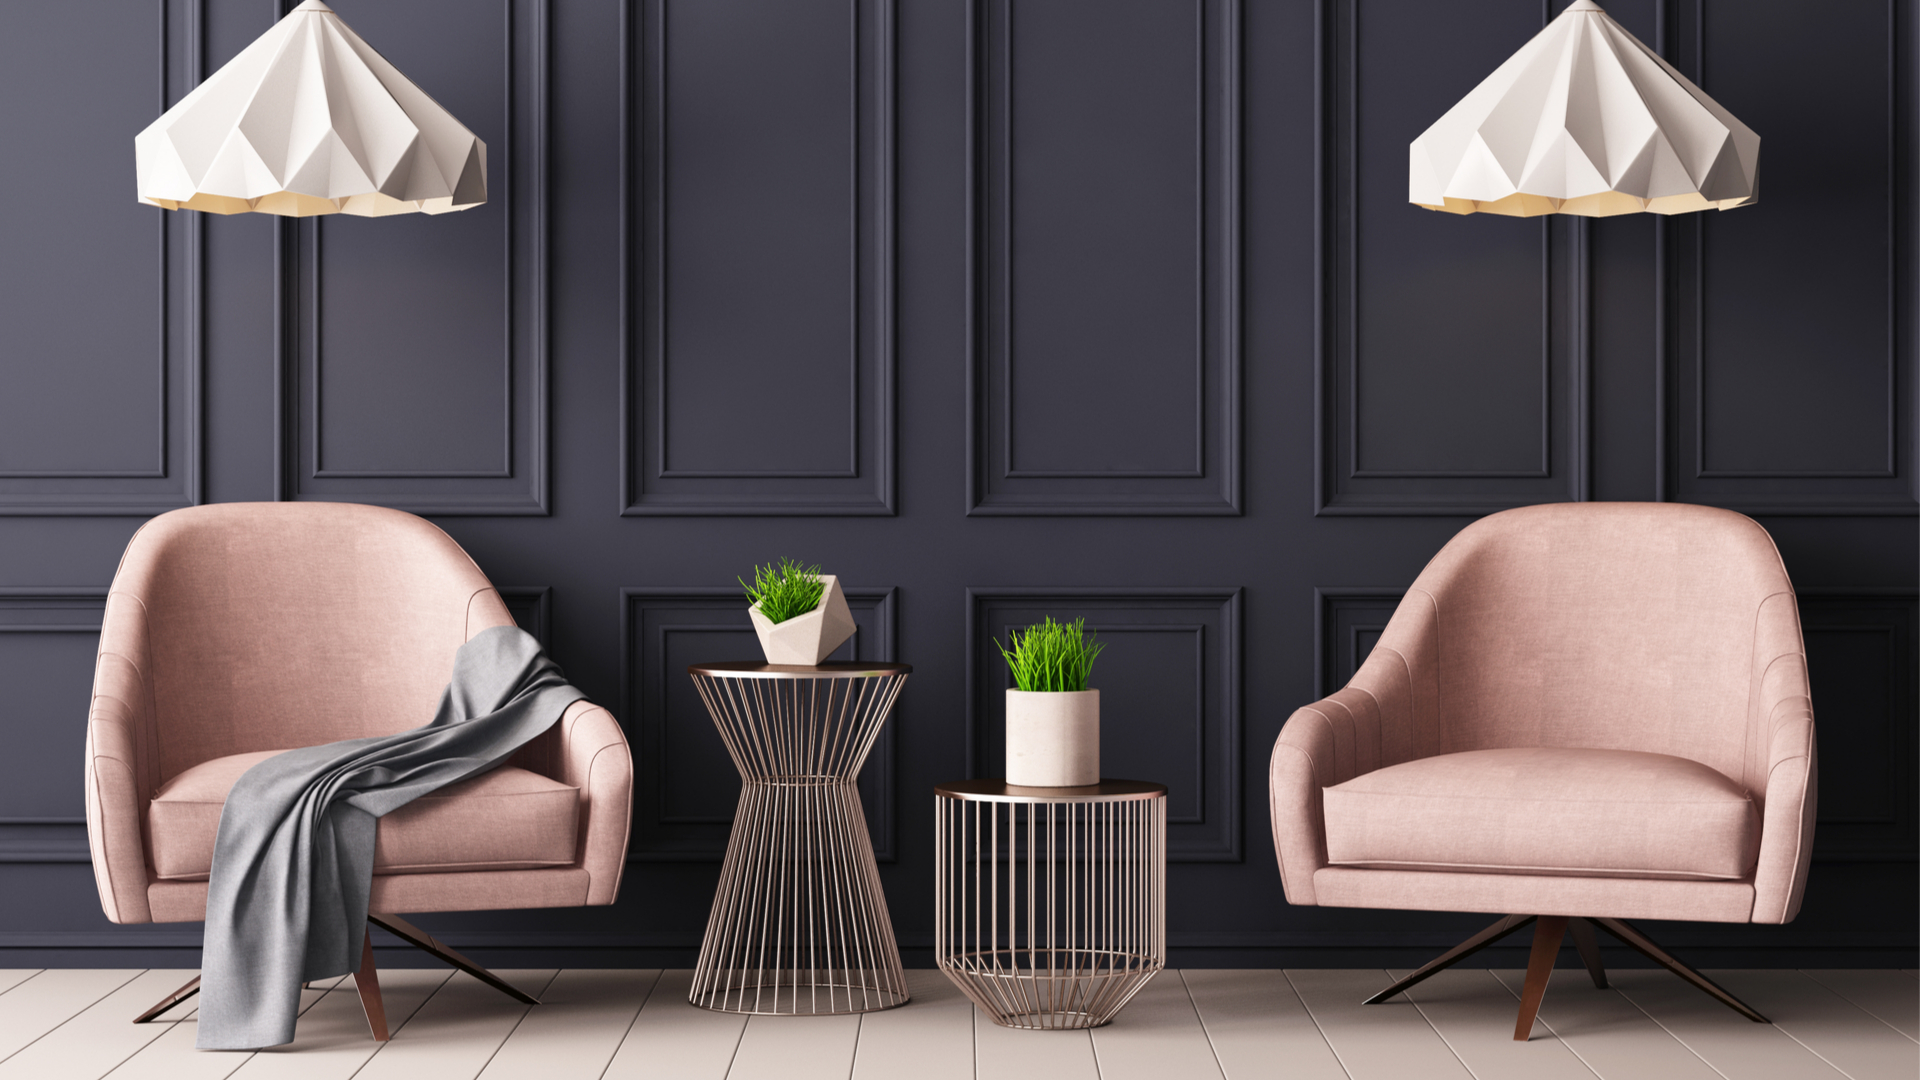
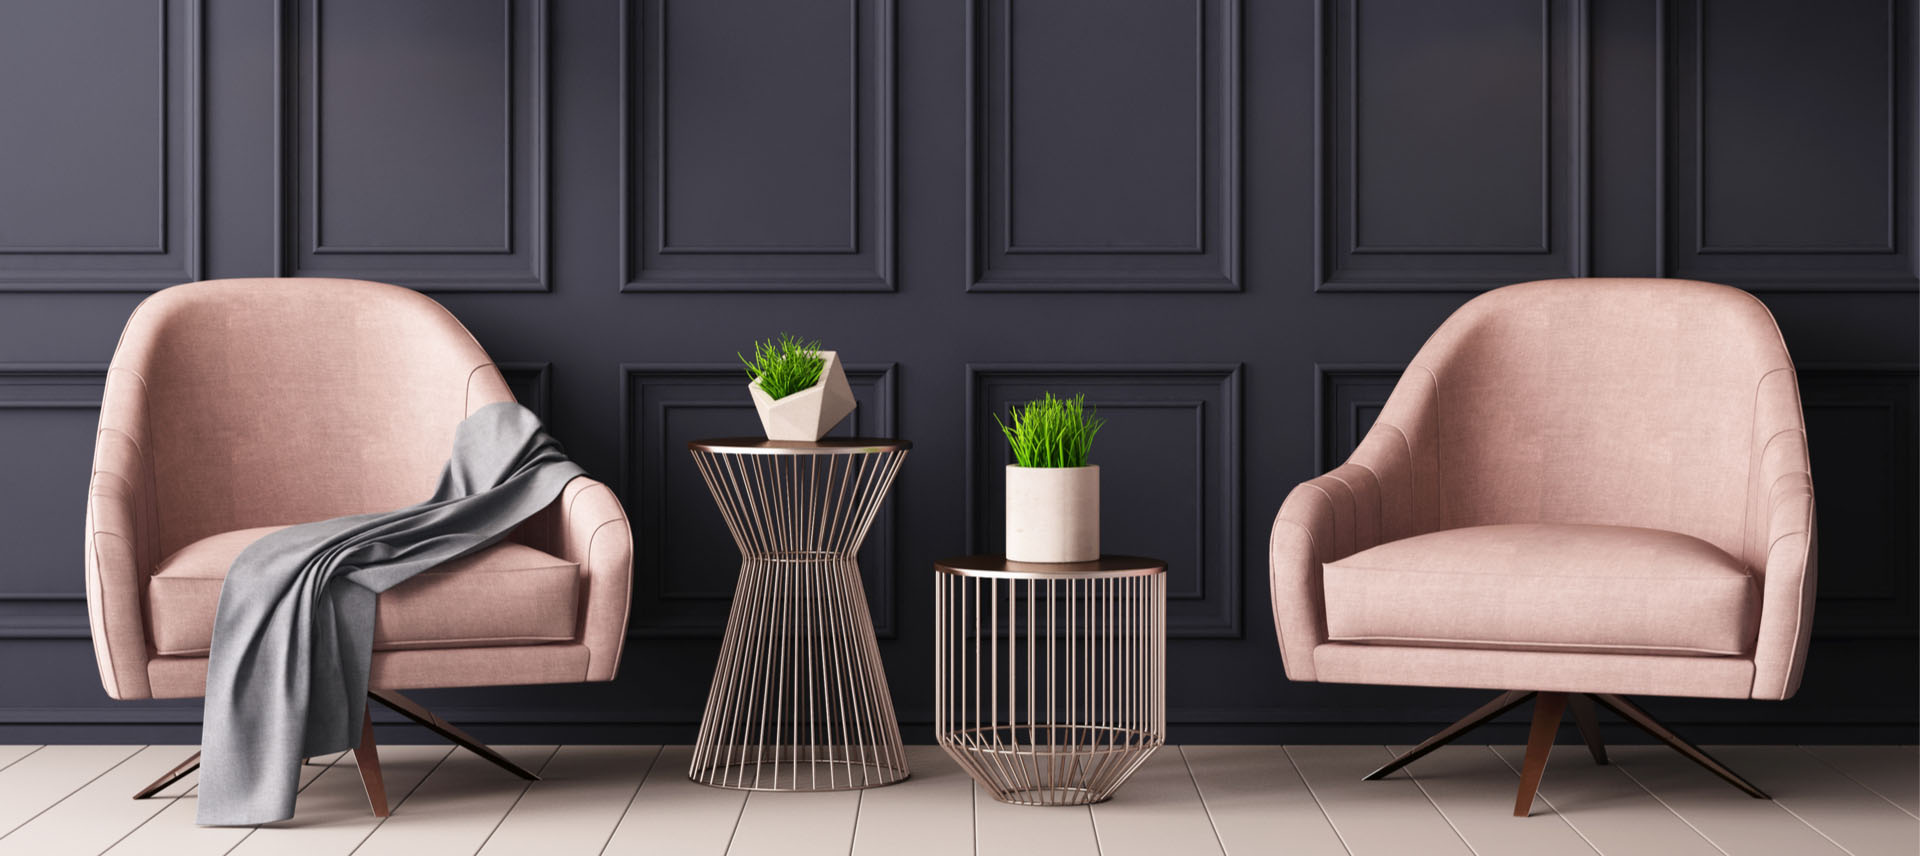
Finished imagesslider

diff --git a/css/style.css b/css/style.css
@@ -209,9 +209,57 @@ FONTS
 HOMEPAGE
 ------------------------------------
 */
+.homepage{
+    overflow: hidden;
+}
+.slides{display: none;}
 
+.slideshow_homepage_container{
+    position: relative;
+    width:100%;
+    height:100%;
+}
 
-
+.fade{
+    -webkit-animation-name: fadeinout;
+    -webkit-animation-duration: 10s;
+    -webkit-animation-iteration-count: infinite;
+    -webkit-animation-timing-function: ease-in-out;
+    -webkit-animation-direction: alternate;
+    animation-direction: alternate;
+    animation-timing-function: ease-in-out;
+    animation-iteration-count: infinite;
+    animation-name: fadeinout;
+    animation-duration: 10s;
+}
+@keyframes fadeinout {
+    0% {
+    opacity:1;
+  }
+  45% {
+  opacity:1;
+  }
+  55% {
+  opacity:0;
+  }
+  100% {
+  opacity:0;
+  }
+}
+@-webkit-keyframes fadeinout {
+    0% {
+    opacity:1;
+  }
+  45% {
+  opacity:1;
+  }
+  55% {
+  opacity:0;
+  }
+  100% {
+  opacity:0;
+  }
+}
 #homepagebuttons {
     position: fixed;
     top: 50%;

diff --git a/scripts/imagesslider.js b/scripts/imagesslider.js
@@ -1,24 +1,14 @@
-var i = 0;
-var image = [];
-var time = 40000;
+var slideIndex = 0;
+showSlides();
 
-images[0] = '../img/imagesslider/img1.jpg';
-image[1] =  '../img/imagesslider/img2.jpg'
-image[2] = '../img/imagesslider/img3.jpg'
-  
-
-function changeImg(){
-  document.img.src = image[i];
-
-  if(i < image.lengt - 1){
-    i++;
-  } else{
-    i = 0;
+function showSlides() {
+  var i;
+  var slides = document.getElementsByClassName("slides");
+  for (i = 0; i < slides.length; i++) {
+    slides[i].style.display = "none";  
   }
-
-  setTimeout("changeImg()"), time)
+  slideIndex++;
+  if (slideIndex > slides.length) {slideIndex = 1}    
+  slides[slideIndex-1].style.display = "block";  
+  setTimeout(showSlides, 5000); // Change image every 5 seconds
 }
-window.onload = changeImg();
-
-
-

diff --git a/homepage.html b/homepage.html
@@ -8,11 +8,17 @@
     <link rel="stylesheet" type="text/css" href="css/style.css">
     <link href='https://fonts.googleapis.com/css?family=Quicksand' rel='stylesheet'>
 </head>
-<body class="homepage" onload="changeImg()">
+<body class="homepage" onload="showSlides()">
     <header></header>
     <div class="slideshow_homepage_container">
         <div class="slides fade">
-            <img src="img/imagesslider/img1.jpg" style="height: 100%;">
+            <img id="img1" src="img/imagesslider/img1.jpg">
+        </div>
+        <div class="slides fade">
+            <img id="img2" src="img/imagesslider/img2.jpg">
+        </div>
+        <div class="slides fade">
+            <img id="img3" src="img/imagesslider/img3.jpg">
         </div>
     </div>
     <div id="homepagebuttons">
